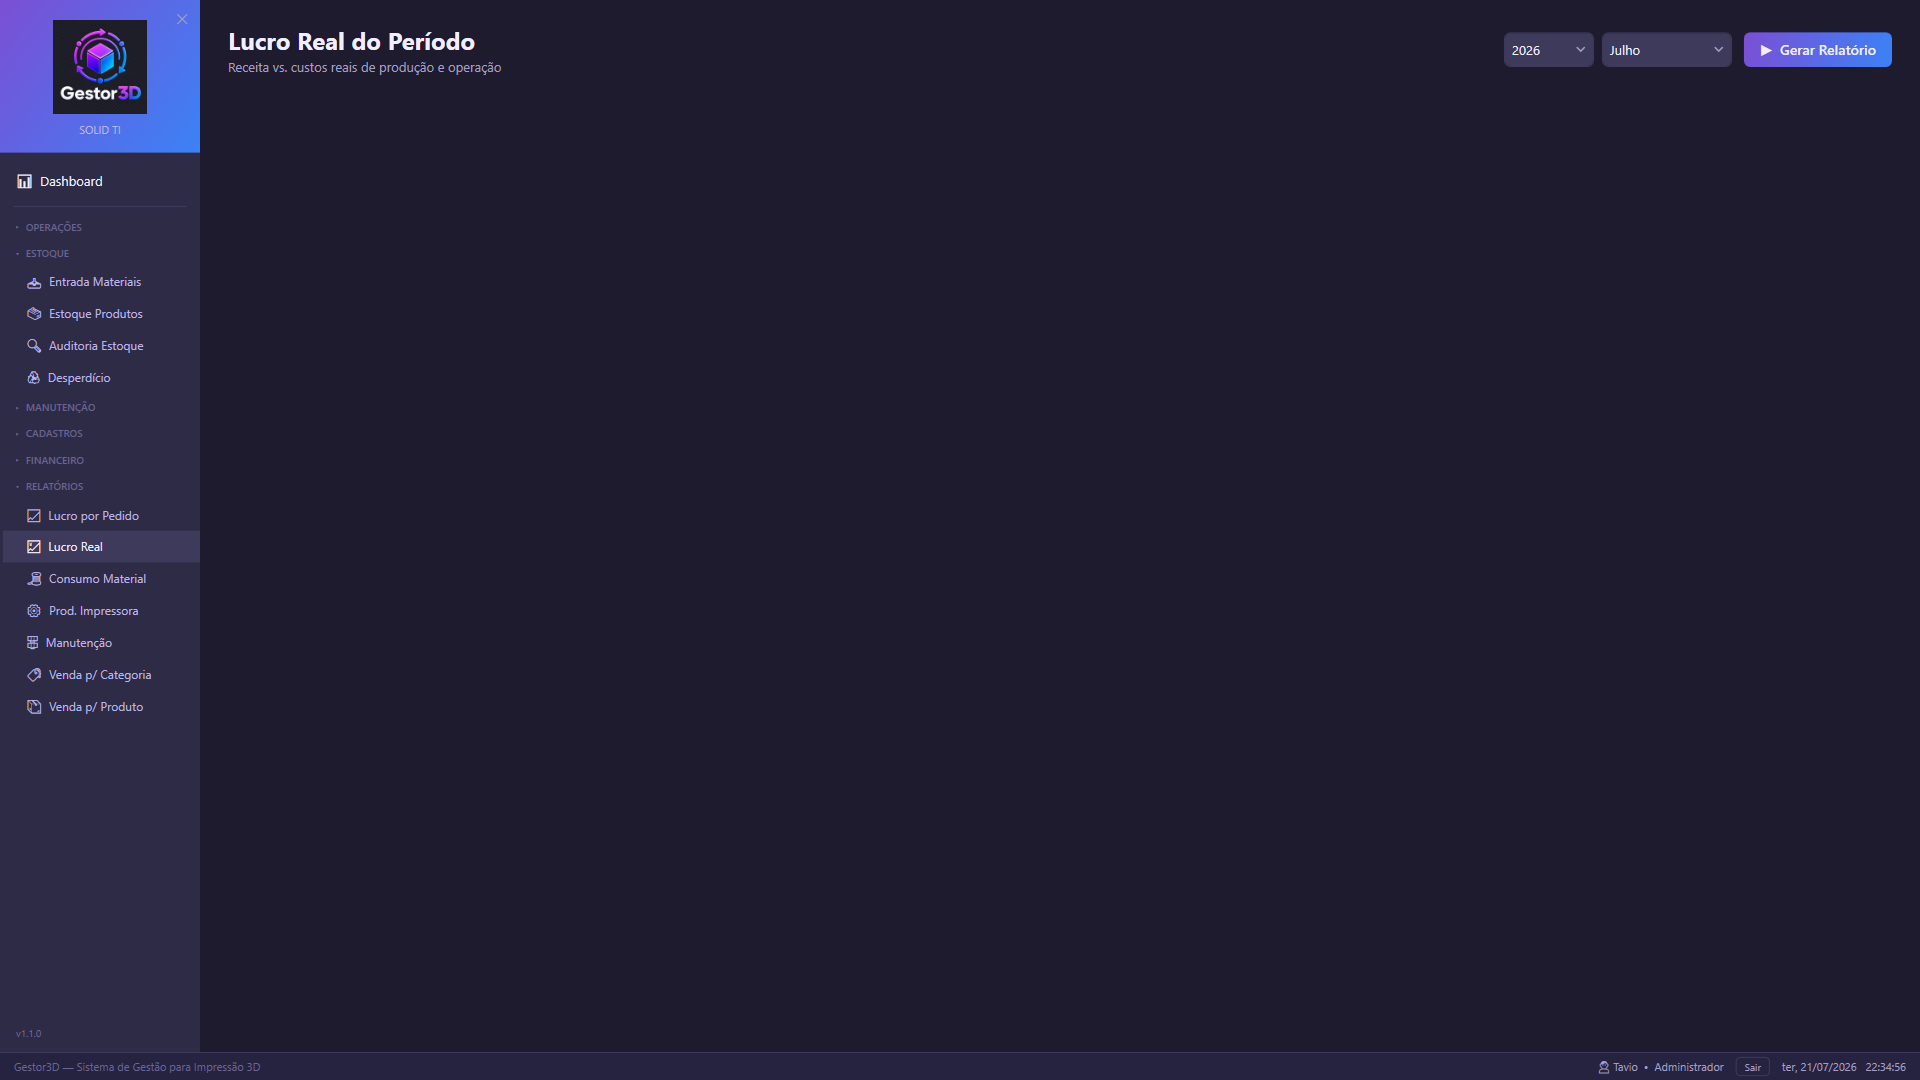
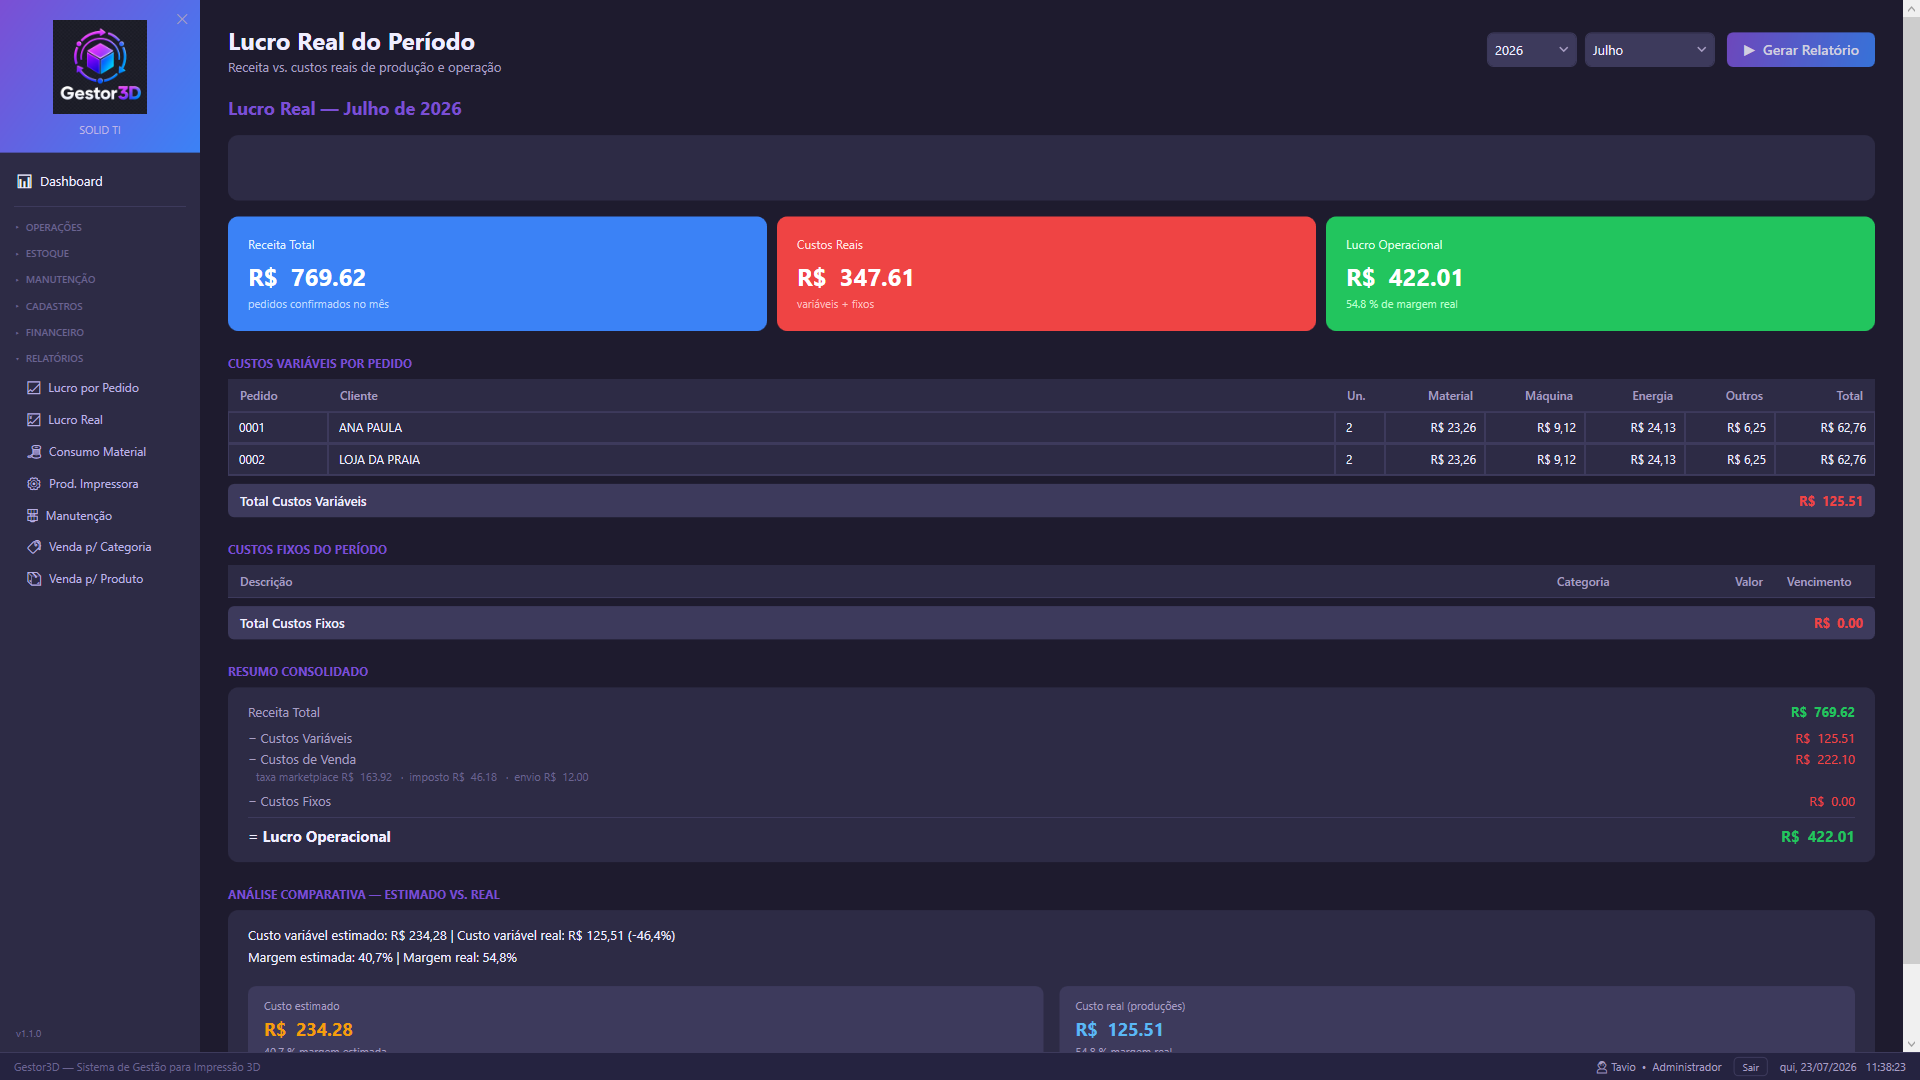
Atualiza relatorios financeiros da apresentacao

diff --git a/apresentacao/index.html b/apresentacao/index.html
@@ -1026,7 +1026,7 @@
       <div><div class="modulo-titulo">Lucro por Pedido</div><div class="modulo-sub">Análise financeira detalhada</div></div>
     </div>
     <div class="desc-bloco">
-      <p>Relatório financeiro que exibe o resultado de cada pedido do período selecionado, mostrando faturamento, custos, taxas e lucro estimado com suas respectivas margens.</p>
+      <p>Relatório financeiro que exibe o resultado de cada pedido do período selecionado, mostrando faturamento, custos, taxas, frete, lucro estimado e margem de cada venda.</p>
       <h4>Filtros e KPIs</h4>
       <div class="funcionalidades">
         <div class="func-item">Filtro por Ano e Mês</div>
@@ -1035,7 +1035,7 @@
       <h4>Colunas da Tabela</h4>
       <div class="funcionalidades">
         <div class="func-item">Nº Pedido, Data, Cliente, Marketplace, Status</div>
-        <div class="func-item">Faturamento, Custo, Taxas + Frete, Lucro, Margem (%)</div>
+        <div class="func-item">Faturamento, Custo, Taxas + Frete, Lucro e Margem (%)</div>
       </div>
     </div>
     <div class="tags">
@@ -1352,20 +1352,21 @@
     <div class="modulo-header">
       <span class="modulo-num">23</span>
       <span class="modulo-icone">💵</span>
-      <div><div class="modulo-titulo">Lucro Real</div><div class="modulo-sub">Lucro efetivo por pedido, sem estimativas</div></div>
+      <div><div class="modulo-titulo">Lucro Real do Período</div><div class="modulo-sub">Receita vs. custos reais de produção e operação</div></div>
     </div>
     <div class="desc-bloco">
-      <p>Diferente do relatório "Lucro por Pedido" (baseado em custos estimados no cadastro do produto), o Lucro Real calcula o resultado financeiro usando os valores efetivamente registrados em cada produção — peso realmente consumido, tempo real de impressão e falhas ocorridas.</p>
+      <p>Diferente do relatório "Lucro por Pedido" (baseado em custos estimados no cadastro do produto), o Lucro Real do Período calcula o resultado financeiro usando os valores efetivamente registrados em cada produção, além dos custos de venda e custos fixos do mês.</p>
       <h4>Funcionalidades</h4>
       <div class="funcionalidades">
+        <div class="func-item">Seleção de Ano e Mês, seguida do botão "Gerar Relatório" no canto superior direito</div>
         <div class="func-item">Cálculo por pedido com base nos dados reais de produção</div>
-        <div class="func-item">Comparação entre custo estimado e custo real</div>
-        <div class="func-item">Identifica pedidos que saíram mais caros do que o previsto</div>
+        <div class="func-item">Resumo consolidado com Receita Total, Custos Reais e Lucro Operacional</div>
+        <div class="func-item">Comparação entre custo estimado, custo real e margem real do período</div>
       </div>
     </div>
     <div class="tags">
       <span class="tag verde">Dados reais</span>
-      <span class="tag roxo">Comparativo</span>
+      <span class="tag roxo">Gerar relatório</span>
     </div>
   </div>
   <div class="modulo-img">